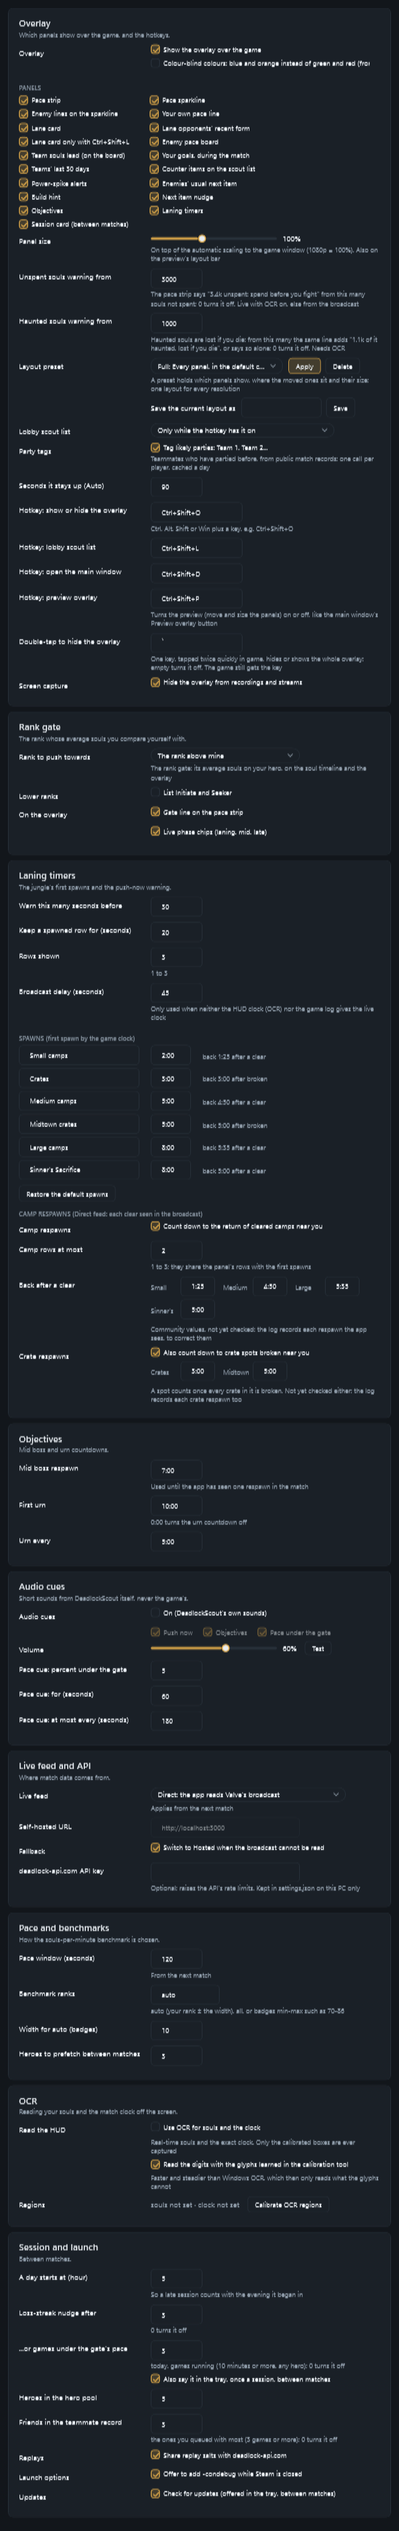
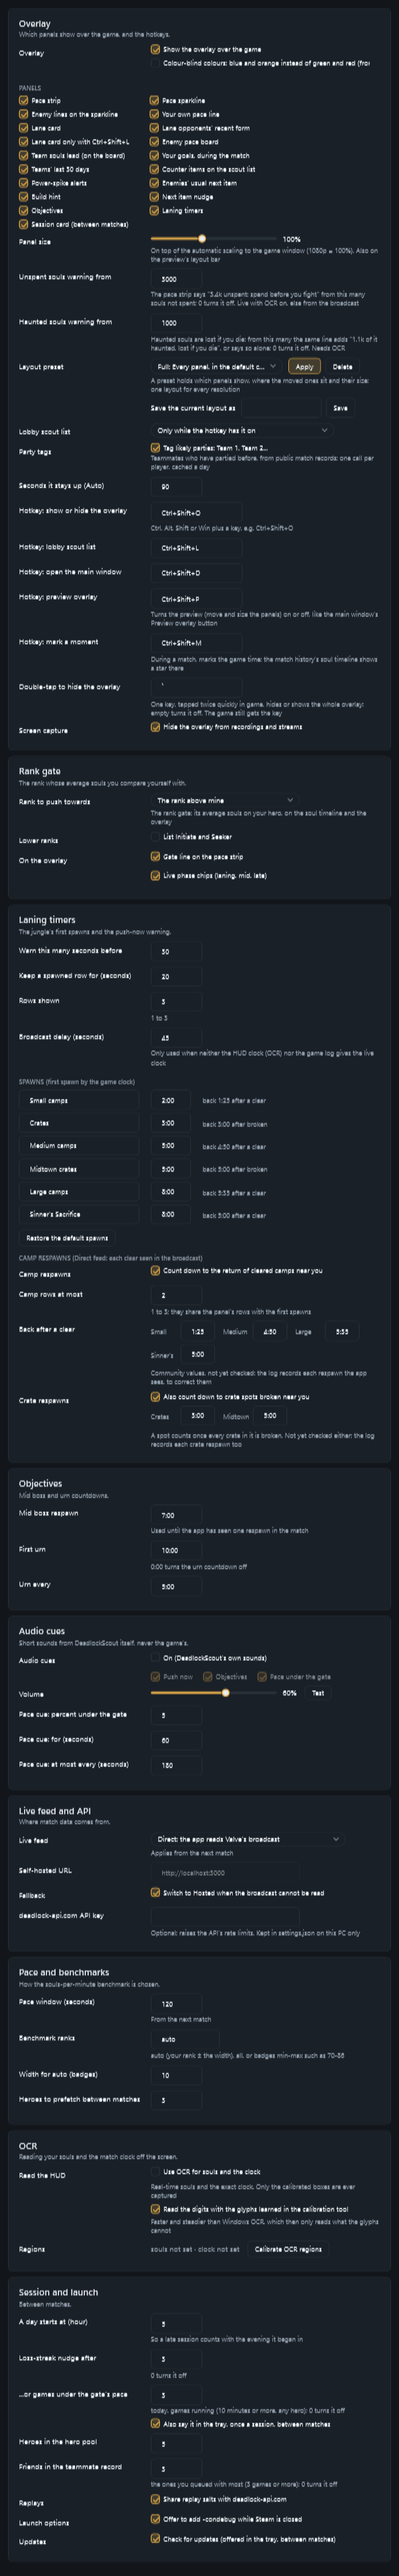
Mark a moment: Ctrl+Shift+M in a match, a star on the soul timeline (#163)
* Roadmap: plan 0.6 (net worth at any moment, marks, opacity, CSV, notes)

Five lines chosen by the owner on Nov 6: every player's net worth at a
clicked moment on a game's soul timeline (their own ask), a hotkey to
mark a moment in a match, panel opacity, export to CSV, and matchup
notes per enemy hero. CLAUDE.md points code work at 0.6.

Claude-Session: https://claude.ai/code/session_01LSDkBn23Na5vMSKWLtGadZ

* Mark a moment: Ctrl+Shift+M in a match, a star on the soul timeline

overlay.hotkeyMark (Ctrl+Shift+M) marks the game time during a match
you play (not spectate); the pace strip says "Marked 14:20" for a few
seconds. The match history's soul timeline shows a gold star at each
mark, whose tooltip gives your souls there and your souls a minute over
the two minutes before.

Core/History/MomentMarks keeps the marks by match id (presses within 5 s
are one mark, 50 a match, the last 200 matches); App/Services/MarkStore
saves them to %LOCALAPPDATA%\DeadlockScout\marks.json, never sent
anywhere. Settings → Overlay has the hotkey; the screenshot's demo game
carries a mark at 16:10.

Claude-Session: https://claude.ai/code/session_01LSDkBn23Na5vMSKWLtGadZ

* Update app screenshots

* Screenshots: put the demo mark on the opened game (match 100)

The demo mark was keyed to match id 1, which no demo game has, so the
match history shot showed no star.

Claude-Session: https://claude.ai/code/session_01LSDkBn23Na5vMSKWLtGadZ

* Update app screenshots

---------

diff --git a/src/DeadlockScout.App/Settings/SettingsWindow.xaml b/src/DeadlockScout.App/Settings/SettingsWindow.xaml
@@ -196,6 +196,14 @@
                         </Grid>
                         <Grid Style="{StaticResource Row}">
                             <Grid.ColumnDefinitions><ColumnDefinition Width="230"/><ColumnDefinition Width="*"/></Grid.ColumnDefinitions>
+                            <TextBlock Text="Hotkey: mark a moment" Style="{StaticResource Label}"/>
+                            <StackPanel Grid.Column="1">
+                                <TextBox Text="{Binding HotkeyMark, UpdateSourceTrigger=LostFocus}" Width="160" HorizontalAlignment="Left"/>
+                                <TextBlock Text="During a match, marks the game time; the match history's soul timeline shows a star there" Style="{StaticResource Hint}"/>
+                            </StackPanel>
+                        </Grid>
+                        <Grid Style="{StaticResource Row}">
+                            <Grid.ColumnDefinitions><ColumnDefinition Width="230"/><ColumnDefinition Width="*"/></Grid.ColumnDefinitions>
                             <TextBlock Text="Double-tap to hide the overlay" Style="{StaticResource Label}"/>
                             <StackPanel Grid.Column="1">
                                 <TextBox Text="{Binding DoubleTapKey, UpdateSourceTrigger=LostFocus}" Width="160" HorizontalAlignment="Left"/>

diff --git a/src/DeadlockScout.App/Overlay/OverlayWindow.xaml b/src/DeadlockScout.App/Overlay/OverlayWindow.xaml
@@ -251,6 +251,8 @@
                                Visibility="{Binding Pace.Goals, Converter={x:Static vm:Converters.VisibleIfNotEmpty}}"/>
                     <TextBlock Text="{Binding Pace.Loss}" FontSize="11.5" Foreground="{StaticResource Bad}" Margin="0,1,0,0" TextWrapping="Wrap"
                                Visibility="{Binding Pace.Loss, Converter={x:Static vm:Converters.VisibleIfNotEmpty}}"/>
+                    <TextBlock Text="{Binding Pace.Mark}" FontSize="11.5" Foreground="{StaticResource Gold}" Margin="0,1,0,0"
+                               Visibility="{Binding Pace.Mark, Converter={x:Static vm:Converters.VisibleIfNotEmpty}}"/>
                     <TextBlock Text="{Binding Pace.Unspent}" FontSize="11.5" Foreground="{StaticResource Gold}" Margin="0,1,0,0" TextWrapping="Wrap"
                                ToolTip="Souls you have not spent yet: they do nothing in a fight. Settings → Overlay sets the threshold"
                                Visibility="{Binding Pace.Unspent, Converter={x:Static vm:Converters.VisibleIfNotEmpty}}"/>

diff --git a/src/DeadlockScout.App/ViewModels/MatchHistoryViewModels.cs b/src/DeadlockScout.App/ViewModels/MatchHistoryViewModels.cs
@@ -49,6 +49,8 @@ public sealed class MatchHistoryViewModel : ObservableObject
     /// <summary>Matches you played that the API has not stored yet, above the games; none of the numbers count them.</summary>
     public ObservableCollection<ProcessingCardViewModel> Processing { get; } = new();
     public TrendsViewModel Trends { get; } = new();
+    /// <summary>The marks made with the mark hotkey for a match id (0.6); none by default.</summary>
+    public Func<long, IReadOnlyList<TimeSpan>> Marks { get; set; } = _ => Array.Empty<TimeSpan>();
 
     // The filter bar: one hero, ranked only, or the games with one friend. Value 0 = all.
     public ObservableCollection<TrendOption> HeroFilters { get; } = new();
@@ -308,7 +310,7 @@ public sealed class MatchHistoryViewModel : ObservableObject
 
         Trends.Load(page.History ?? page.Games.Select(g => g.Entry).ToList(), assets, icons, now);
         Games.Clear();
-        foreach (var g in page.Games) Games.Add(new GameCardViewModel(g, assets, now));
+        foreach (var g in page.Games) Games.Add(new GameCardViewModel(g, assets, now, Marks(g.Entry.MatchId)));
         if (Games.Count > 0) Games[0].IsExpanded = true;
         Processing.Clear();
         foreach (var p in page.Processing ?? Array.Empty<PlayedMatch>()) Processing.Add(new ProcessingCardViewModel(p, assets, now));
@@ -535,8 +537,9 @@ public sealed class GameCardViewModel : ObservableObject
     private double? _goalDelta;
     private IReadOnlyList<TimelineMarker> _markers = Array.Empty<TimelineMarker>();
 
-    public GameCardViewModel(HistoryGame g, AssetCatalog assets, DateTimeOffset now)
+    public GameCardViewModel(HistoryGame g, AssetCatalog assets, DateTimeOffset now, IReadOnlyList<TimeSpan>? marks = null)
     {
+        _marks = marks ?? Array.Empty<TimeSpan>();
         _cost = assets.ItemCost;
         var e = g.Entry;
         MatchId = e.MatchId;
@@ -768,9 +771,23 @@ public sealed class GameCardViewModel : ObservableObject
         return waiting;
     }
 
+    private readonly IReadOnlyList<TimeSpan> _marks;
+    private static readonly Brush MarkColor = Frozen(Color.FromRgb(0xE8, 0xB0, 0x4B)), MarkFill = Frozen(Color.FromArgb(0x40, 0xE8, 0xB0, 0x4B));
+
+    /// <summary>"Your mark at 14:20: 9.2k souls, 610 a minute over the 2 minutes before": a mark's tooltip, from the soul timeline.</summary>
+    private string MarkTip(TimeSpan at)
+    {
+        int now = HistoryMath.SoulsAt(Souls, at) ?? 0;
+        var from = at - TimeSpan.FromMinutes(2) < TimeSpan.Zero ? TimeSpan.Zero : at - TimeSpan.FromMinutes(2);
+        double minutes = (at - from).TotalMinutes;
+        string rate = minutes > 0 ? $", {(now - (HistoryMath.SoulsAt(Souls, from) ?? 0)) / minutes:0} a minute over the {minutes:0.#} min before" : "";
+        return $"{Format.Clock(at)}  your mark: {Format.Count(now)} souls{rate}";
+    }
+
     private void BuildMarkers()
-        => Markers = Purchases.Select(p => new TimelineMarker(p.At, HistoryMath.SoulsAt(Souls, p.At) ?? 0, p.Chip.Initial, p.Chip.Color, p.Chip.Fill,
-                p.Chip.Icon, $"{p.TimeText}  {p.Chip.Name}" + (p.Chip.Cost > 0 ? $" ({p.Chip.Cost:N0})" : "") + (p.Sold ? $" · {p.SoldText}" : "")))
+        => Markers = _marks.Where(m => m <= Duration).Select(m => new TimelineMarker(m, HistoryMath.SoulsAt(Souls, m) ?? 0, "★", MarkColor, MarkFill, null, MarkTip(m)))
+            .Concat(Purchases.Select(p => new TimelineMarker(p.At, HistoryMath.SoulsAt(Souls, p.At) ?? 0, p.Chip.Initial, p.Chip.Color, p.Chip.Fill,
+                p.Chip.Icon, $"{p.TimeText}  {p.Chip.Name}" + (p.Chip.Cost > 0 ? $" ({p.Chip.Cost:N0})" : "") + (p.Sold ? $" · {p.SoldText}" : ""))))
             // Deaths as red crosses on the line, among the purchases by time.
             .Concat(DeathResults.Select(d => new TimelineMarker(d.At, HistoryMath.SoulsAt(Souls, d.At) ?? 0, "✕", DeathColor, DeathFill, null,
                 $"{Format.Clock(d.At)}  died, dead {d.Duration.TotalSeconds:0} s" + (d.Unspent is { } u ? $" · ~{Format.Count(u)} unspent" : ""))))

diff --git a/src/DeadlockScout.App/Overlay/OverlayWindow.xaml.cs b/src/DeadlockScout.App/Overlay/OverlayWindow.xaml.cs
@@ -26,7 +26,7 @@ namespace DeadlockScout.App.Overlay;
 /// </summary>
 public partial class OverlayWindow : Window
 {
-    private const int HotkeyToggleId = 0x4A01, HotkeyLayoutId = 0x4A02, HotkeyMainId = 0x4A03, HotkeyPreviewId = 0x4A04;
+    private const int HotkeyToggleId = 0x4A01, HotkeyLayoutId = 0x4A02, HotkeyMainId = 0x4A03, HotkeyPreviewId = 0x4A04, HotkeyMarkId = 0x4A05;
 
     /// <summary>The panels the layout editor can move, by their x:Name (also the first part of their position key).</summary>
     private static readonly string[] Movable = { "PacePanel", "LanePanel", "ScoutPanel", "EnemyPanel", "BuildPanel", "ObjectivesPanel", "TimersPanel", "SessionPanel" };
@@ -132,6 +132,7 @@ public partial class OverlayWindow : Window
         if (Hotkey.TryParse(o.HotkeyLayout, out var m2, out var k2)) NativeMethods.RegisterHotKey(hwnd, HotkeyLayoutId, m2, k2);
         if (Hotkey.TryParse(o.HotkeyMain, out var m3, out var k3)) NativeMethods.RegisterHotKey(hwnd, HotkeyMainId, m3, k3);
         if (Hotkey.TryParse(o.HotkeyPreview, out var m4, out var k4)) NativeMethods.RegisterHotKey(hwnd, HotkeyPreviewId, m4, k4);
+        if (Hotkey.TryParse(o.HotkeyMark, out var m5, out var k5)) NativeMethods.RegisterHotKey(hwnd, HotkeyMarkId, m5, k5);
     }
 
     private void UnregisterHotkeys()
@@ -142,6 +143,7 @@ public partial class OverlayWindow : Window
         NativeMethods.UnregisterHotKey(hwnd, HotkeyLayoutId);
         NativeMethods.UnregisterHotKey(hwnd, HotkeyMainId);
         NativeMethods.UnregisterHotKey(hwnd, HotkeyPreviewId);
+        NativeMethods.UnregisterHotKey(hwnd, HotkeyMarkId);
     }
 
     private IntPtr WndProc(IntPtr hwnd, int msg, IntPtr wParam, IntPtr lParam, ref bool handled)
@@ -154,6 +156,7 @@ public partial class OverlayWindow : Window
                 case HotkeyLayoutId: _scoutPinned = !_scoutPinned; handled = true; break;
                 case HotkeyMainId: MainHotkey?.Invoke(); handled = true; break;
                 case HotkeyPreviewId: PreviewHotkey?.Invoke(); handled = true; break;
+                case HotkeyMarkId: MarkHotkey?.Invoke(); handled = true; break;
             }
         }
         return IntPtr.Zero;
@@ -220,6 +223,8 @@ public partial class OverlayWindow : Window
     public event Action? MainHotkey;
     /// <summary>The preview hotkey: the shell turns the preview on or off, the same as the main window's button.</summary>
     public event Action? PreviewHotkey;
+    /// <summary>The mark hotkey: the shell marks the current game time of the match.</summary>
+    public event Action? MarkHotkey;
 
     public void SetPreview(bool on)
     {

diff --git a/src/DeadlockScout.App/Services/AppShell.cs b/src/DeadlockScout.App/Services/AppShell.cs
@@ -82,8 +82,9 @@ public sealed class AppShell
     public AppShell(OverlayState state, OverlayWindow overlay, JsonSettingsMonitor settings, GamePaths paths, AssetCatalog assets, IOcrEngine ocr,
                     MatchHistoryService historyService, ItemIcons icons, MatchSession session, CompositeBenchmark benchmark, BuildHintService builds,
                     AudioCuePlayer audio, DiagnosticsLog diagnostics, OcrSoulSource ocrSource, OcrJumpGuard guard, CounterItemService counters,
-                    SoulSourceService sources, SaltIngest ingest, UpdateService updates, GlyphStore glyphStore, ILogger<AppShell> log)
+                    SoulSourceService sources, SaltIngest ingest, UpdateService updates, GlyphStore glyphStore, ILogger<AppShell> log, MarkStore marks)
     {
+        _marks = marks;
         _state = state; _overlay = overlay; _settings = settings; _paths = paths; _assets = assets; _ocr = ocr;
         _historyService = historyService; _icons = icons; _session = session; _benchmark = benchmark; _builds = builds; _audio = audio;
         _diagnostics = diagnostics; _ocrSource = ocrSource; _guard = guard; _counters = counters; _sources = sources;
@@ -214,6 +215,19 @@ public sealed class AppShell
     public void ToggleOverlay() => _overlay.ToggleVisible();
 
     /// <summary>Turns the overlay preview on or off. Fills in the demo lobby when no match is live.</summary>
+    private readonly MarkStore _marks;
+
+    /// <summary>
+    /// The mark hotkey: in a match you play (not spectate) with a known match id and a game clock, saves the game time
+    /// and says "Marked 14:20" in the pace strip; anything else does nothing.
+    /// </summary>
+    public void MarkMoment()
+    {
+        if (!_state.InMatch || _state.CurrentMatchId <= 0) return;
+        if (_state.Clock.Read(DateTimeOffset.UtcNow, _state.AssumedDelay)?.GameTime is not { } at) return;
+        if (_marks.Add(_state.CurrentMatchId, at)) _state.ShowMark(at);
+    }
+
     public void TogglePreview()
     {
         bool on = !_overlay.Preview;
@@ -233,7 +247,8 @@ public sealed class AppShell
             (hero, tier, ct) => _sources.GetAsync(hero, RankGoal.Bracket(tier), ct),
             _settings.CurrentValue.Targets, targets => _settings.Save(_settings.CurrentValue.WithTargets(targets)),
             async ct => SaltIngest.Describe(await _ingest.RunNowAsync(ct)),
-            () => _state.Friends);
+            () => _state.Friends,
+            _marks.For);
         _history.Closed += (_, _) => _history = null;
         _history.Show();
     }

diff --git a/src/DeadlockScout.App/Services/MarkStore.cs b/src/DeadlockScout.App/Services/MarkStore.cs
@@ -1,0 +1,55 @@
+using System.IO;
+using System.Text.Json;
+using DeadlockScout.Core.History;
+using Microsoft.Extensions.Logging;
+
+namespace DeadlockScout.App.Services;
+
+/// <summary>
+/// The moments marked with the mark hotkey (0.6), in <c>%LOCALAPPDATA%\DeadlockScout\marks.json</c>: match ids and game
+/// times only, never sent anywhere. Saved on each mark (a few bytes); a file that cannot be read starts empty.
+/// </summary>
+public sealed class MarkStore
+{
+    private readonly string _path;
+    private readonly ILogger<MarkStore>? _log;
+    private readonly object _gate = new();
+    private MomentMarks _marks;
+
+    public MarkStore(string? path = null, ILogger<MarkStore>? log = null)
+    {
+        _path = path ?? Path.Combine(Environment.GetFolderPath(Environment.SpecialFolder.LocalApplicationData), "DeadlockScout", "marks.json");
+        _log = log;
+        _marks = Load();
+    }
+
+    public IReadOnlyList<TimeSpan> For(long matchId) { lock (_gate) return _marks.For(matchId); }
+
+    /// <summary>Adds a mark and saves; false when it was a double press, the match id is unknown or the match is full.</summary>
+    public bool Add(long matchId, TimeSpan at)
+    {
+        lock (_gate)
+        {
+            var next = _marks.With(matchId, at);
+            if (ReferenceEquals(next, _marks)) return false;
+            _marks = next;
+            try
+            {
+                Directory.CreateDirectory(Path.GetDirectoryName(_path)!);
+                File.WriteAllText(_path, JsonSerializer.Serialize(_marks));
+            }
+            catch (Exception ex) when (ex is IOException or UnauthorizedAccessException) { _log?.LogWarning(ex, "Marks could not be saved"); }
+            return true;
+        }
+    }
+
+    private MomentMarks Load()
+    {
+        try { return File.Exists(_path) ? JsonSerializer.Deserialize<MomentMarks>(File.ReadAllText(_path)) ?? new() : new(); }
+        catch (Exception ex) when (ex is IOException or JsonException or UnauthorizedAccessException)
+        {
+            _log?.LogWarning(ex, "Marks could not be read; starting empty");
+            return new();
+        }
+    }
+}

diff --git a/src/DeadlockScout.App/Program.cs b/src/DeadlockScout.App/Program.cs
@@ -144,6 +144,7 @@ public static class Program
             CheckUpdatesNow, overlaySettings.HotkeyMain);
         overlay.MainHotkey += shell.ShowMain;
         overlay.PreviewHotkey += shell.TogglePreview;
+        overlay.MarkHotkey += shell.MarkMoment;
         shell.ExitRequested += Exit;
         shell.FirstHiddenToTray += () => tray.Notify("Still running", $"DeadlockScout is in the tray: open it again from there or with {overlaySettings.HotkeyMain}. Use Exit in the window or the tray menu to quit.");
         // Ctrl+C in the terminal stops the host; take the whole app down with it.
@@ -259,7 +260,8 @@ public static class Program
                     counterItems: (mine, enemy, _) => Task.FromResult(MatchHistoryWindow.DemoCounters(mine, enemy)),
                     sourceRates: (hero, tier, _) => Task.FromResult<SourceRates?>(MatchHistoryWindow.DemoSourceRates(hero, tier)),
                     targets: new TargetSettings { LaningSpm = 420, MaxLaningDeaths = 1, FixPhase = GamePhase.Mid },
-                    sendMatches: _ => Task.FromResult("demo"))   // shows the Send button; never pressed in the shot
+                    sendMatches: _ => Task.FromResult("demo"),   // shows the Send button; never pressed in the shot
+                    marks: id => id == 100 ? new[] { new TimeSpan(0, 16, 10) } : Array.Empty<TimeSpan>()) // the opened demo game (match 100): a mark at the dip after the lost fight
                 {
                     WindowStartupLocation = WindowStartupLocation.Manual, Left = 0, Top = 0,
                 };
@@ -460,6 +462,7 @@ public static class Program
             return new LiveFeedSoulSource(sp.GetRequiredService<ILiveMatchFeed>(), catalog.HeldCost);
         });
         services.AddSingleton(sp => new GlyphStore(log: sp.GetService<ILogger<GlyphStore>>()));
+        services.AddSingleton(sp => new MarkStore(log: sp.GetService<ILogger<MarkStore>>()));
         services.AddSingleton<IOcrEngine>(sp =>
         {
             var monitor = sp.GetRequiredService<IOptionsMonitor<ScoutSettings>>();

diff --git a/src/DeadlockScout.Core/History/MomentMarks.cs b/src/DeadlockScout.Core/History/MomentMarks.cs
@@ -1,0 +1,34 @@
+namespace DeadlockScout.Core.History;
+
+/// <summary>
+/// The moments you marked during matches (0.6, the mark hotkey), by match id, in game seconds: the match history's soul
+/// timeline shows each one. Kept in local app data only, never sent anywhere. Pure, so tested; the app saves it.
+/// </summary>
+public sealed record MomentMarks
+{
+    /// <summary>Two presses closer than this are one mark.</summary>
+    public const int SameMarkSeconds = 5;
+    public const int MaxPerMatch = 50;
+    /// <summary>Matches kept; the oldest go first.</summary>
+    public const int MaxMatches = 200;
+
+    /// <summary>Match id → marked game seconds, in order; the dictionary keeps insertion order for trimming.</summary>
+    public Dictionary<long, List<int>> Matches { get; init; } = new();
+
+    /// <summary>The marks with one more at <paramref name="at"/>; unchanged when the match id is unknown or one is already within 5 s.</summary>
+    public MomentMarks With(long matchId, TimeSpan at)
+    {
+        if (matchId <= 0 || at < TimeSpan.Zero) return this;
+        int s = (int)Math.Round(at.TotalSeconds);
+        var marks = Matches.TryGetValue(matchId, out var list) ? new List<int>(list) : new List<int>();
+        if (marks.Any(m => Math.Abs(m - s) < SameMarkSeconds) || marks.Count >= MaxPerMatch) return this;
+        marks.Add(s);
+        marks.Sort();
+        var all = Matches.Where(kv => kv.Key != matchId).ToList();
+        all.Add(new(matchId, marks));
+        return new MomentMarks { Matches = all.Skip(Math.Max(0, all.Count - MaxMatches)).ToDictionary(kv => kv.Key, kv => kv.Value) };
+    }
+
+    public IReadOnlyList<TimeSpan> For(long matchId)
+        => Matches.TryGetValue(matchId, out var list) ? list.Select(s => TimeSpan.FromSeconds(s)).ToList() : Array.Empty<TimeSpan>();
+}

diff --git a/src/DeadlockScout.App/ViewModels/OverlayState.cs b/src/DeadlockScout.App/ViewModels/OverlayState.cs
@@ -70,6 +70,16 @@ public sealed class OverlayState
     public WeeklyViewModel Weekly { get; } = new();
     /// <summary>Set by the match session; the session panel hides while it is true.</summary>
     public volatile bool InMatch;
+    /// <summary>The live match's id while one is on (0 otherwise or when only the content log saw it), for marks.</summary>
+    public long CurrentMatchId;
+    private DateTimeOffset _markShownUntil;
+
+    /// <summary>Shows "Marked 14:20" in the pace strip for a few seconds.</summary>
+    public void ShowMark(TimeSpan at)
+    {
+        Pace.Mark = $"Marked {PaceMath.FormatClock(at)}";
+        _markShownUntil = DateTimeOffset.UtcNow.AddSeconds(4);
+    }
     /// <summary>Watching someone else's match: the pace board covers both teams and tags each row with its team.</summary>
     public volatile bool Spectating;
 
@@ -341,6 +351,7 @@ public sealed class OverlayState
         Pace.Goals = Meter.Latest is { } latest ? LiveGoals.Line(Targets, now, latest.Souls, MyDeaths, current) ?? "" : "";
         Pace.Unspent = UnspentSouls.Line(LatestSample, UnspentThreshold, HauntedThreshold) ?? "";
         Pace.Loss = LatestSample is { } newest ? Recap.LossLine(newest.GameTime) ?? "" : "";
+        if (Pace.Mark.Length > 0 && DateTimeOffset.UtcNow > _markShownUntil) Pace.Mark = "";
         foreach (var (slot, i) in Pace.PhaseSlots.Select((s, i) => (s, i)))
         {
             var p = live.FirstOrDefault(r => (int)r.Phase == i);

diff --git a/tests/DeadlockScout.Tests/Core/MatchHistoryTests.cs b/tests/DeadlockScout.Tests/Core/MatchHistoryTests.cs
@@ -264,4 +264,22 @@ public class MatchHistoryTests
         Assert.Equal(6000, early.Enemies.Single().NetWorth);
         Assert.Equal(20000, HistoryMath.Moment(d, TimeSpan.FromMinutes(40)).Team.Single(p => p.IsMe).NetWorth); // flat after the end
     }
+
+    [Fact]
+    public void Marks_are_kept_per_match_in_order_without_doubles_and_survive_json()
+    {
+        var m = new MomentMarks().With(42, TimeSpan.FromSeconds(860)).With(42, TimeSpan.FromSeconds(300))
+            .With(42, TimeSpan.FromSeconds(862))                                   // a double press: one mark
+            .With(0, TimeSpan.FromSeconds(100));                                    // no match id: ignored
+        Assert.Equal(new[] { TimeSpan.FromSeconds(300), TimeSpan.FromSeconds(860) }, m.For(42));
+        Assert.Empty(m.For(7));
+
+        var full = Enumerable.Range(0, MomentMarks.MaxMatches + 3).Aggregate(new MomentMarks(), (acc, i) => acc.With(1000 + i, TimeSpan.FromMinutes(5)));
+        Assert.Equal(MomentMarks.MaxMatches, full.Matches.Count);
+        Assert.Empty(full.For(1000));                                               // the oldest went first
+        Assert.Single(full.For(1000 + MomentMarks.MaxMatches + 2));
+
+        var json = System.Text.Json.JsonSerializer.Serialize(m);
+        Assert.Equal(m.For(42), System.Text.Json.JsonSerializer.Deserialize<MomentMarks>(json)!.For(42));
+    }
 }

diff --git a/src/DeadlockScout.App/History/MatchHistoryWindow.xaml.cs b/src/DeadlockScout.App/History/MatchHistoryWindow.xaml.cs
@@ -57,8 +57,10 @@ public partial class MatchHistoryWindow : Window
                               Func<int, int, CancellationToken, Task<SourceRates?>>? sourceRates = null,
                               TargetSettings? targets = null, Action<TargetSettings>? saveTargets = null,
                               Func<CancellationToken, Task<string>>? sendMatches = null,
-                              Func<IReadOnlyList<TeammateRow>>? friends = null)
+                              Func<IReadOnlyList<TeammateRow>>? friends = null,
+                              Func<long, IReadOnlyList<TimeSpan>>? marks = null)
     {
+        _vm.Marks = marks ?? (_ => Array.Empty<TimeSpan>());
         _friends = friends ?? (() => Array.Empty<TeammateRow>());
         _sendMatches = sendMatches;
         _counterItems = counterItems;

diff --git a/src/DeadlockScout.App/Services/MatchSession.cs b/src/DeadlockScout.App/Services/MatchSession.cs
@@ -102,6 +102,7 @@ public sealed class MatchSession : IDisposable
         _matchCts = new CancellationTokenSource();
         if (_ctx?.MatchId != ctx.MatchId || ctx.MatchId == 0) _clockAnchor = null; // the id upgrade of a fallback start is the same match
         _ctx = ctx;
+        _state.CurrentMatchId = ctx.HasMatchId && !ctx.Spectating ? ctx.MatchId : 0;
         _delayLogged = _anchorChecked = false;
         _diagnostics.MatchStarted(ctx.MatchId, ctx.Spectating, DateTimeOffset.UtcNow);
         _urnOnMap = null;
@@ -157,6 +158,7 @@ public sealed class MatchSession : IDisposable
         _state.Status.Phase = "Match ended";
         _state.ScoutVisibleUntil = DateTimeOffset.MinValue;
         _ctx = null;
+        _state.CurrentMatchId = 0;
     }
 
     /// <summary>
